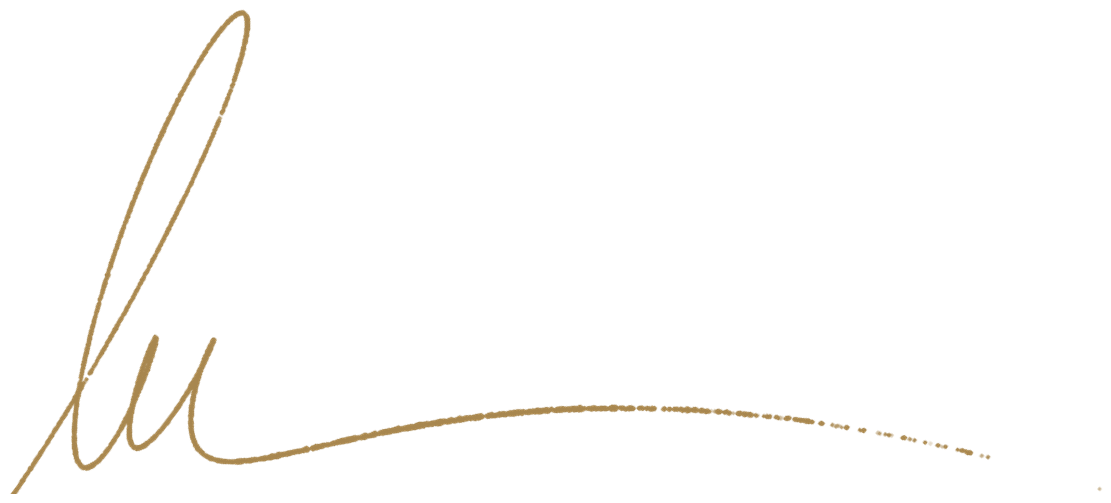
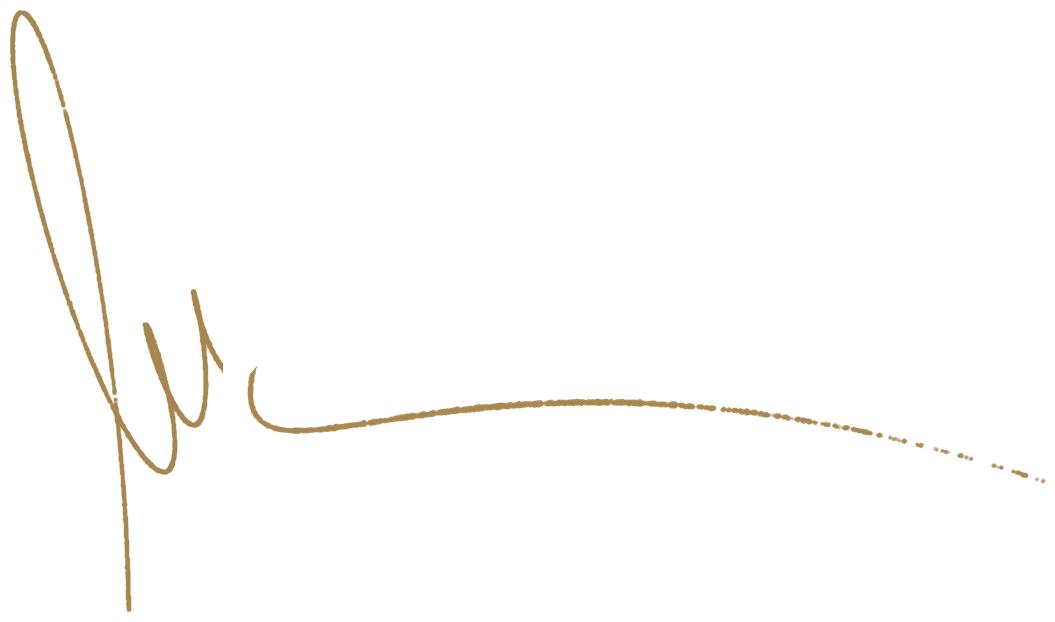
Assinatura com L na vertical, efeito de escrita mais lento

diff --git a/index.html b/index.html
@@ -195,7 +195,7 @@
   .signoff-line { font-size: clamp(38px, 5.6vw, 72px); line-height: 1.05; max-width: 16ch; }
   .signoff-inner { display: inline-flex; flex-direction: column; align-items: flex-end; gap: 6px; }
   .signoff .sig { width: 300px; height: auto; margin-top: 0; margin-right: -4px; clip-path: inset(0 100% 0 0); }
-  .signoff .sig.write { animation: write 1.9s cubic-bezier(.4,.1,.3,1) forwards; animation-delay: .5s; }
+  .signoff .sig.write { animation: write 4.8s cubic-bezier(.55,.05,.6,.95) forwards; animation-delay: .4s; }
   @keyframes write { to { clip-path: inset(0 0 0 0); } }
   @media (prefers-reduced-motion: reduce) { .signoff .sig { clip-path: none; animation: none; } }
   .no-io .signoff .sig { clip-path: none; }
@@ -439,7 +439,7 @@
     <div class="signoff">
       <div class="signoff-inner">
         <p class="display signoff-line">Desconfie do <em>"sempre foi assim"</em>.</p>
-        <img class="sig" id="sig" src="img/assinatura.png" alt="Assinatura de Luenna" width="1111" height="443">
+        <img class="sig" id="sig" src="img/assinatura.png" alt="Assinatura de Luenna" width="1055" height="622">
       </div>
     </div>
   </main>
